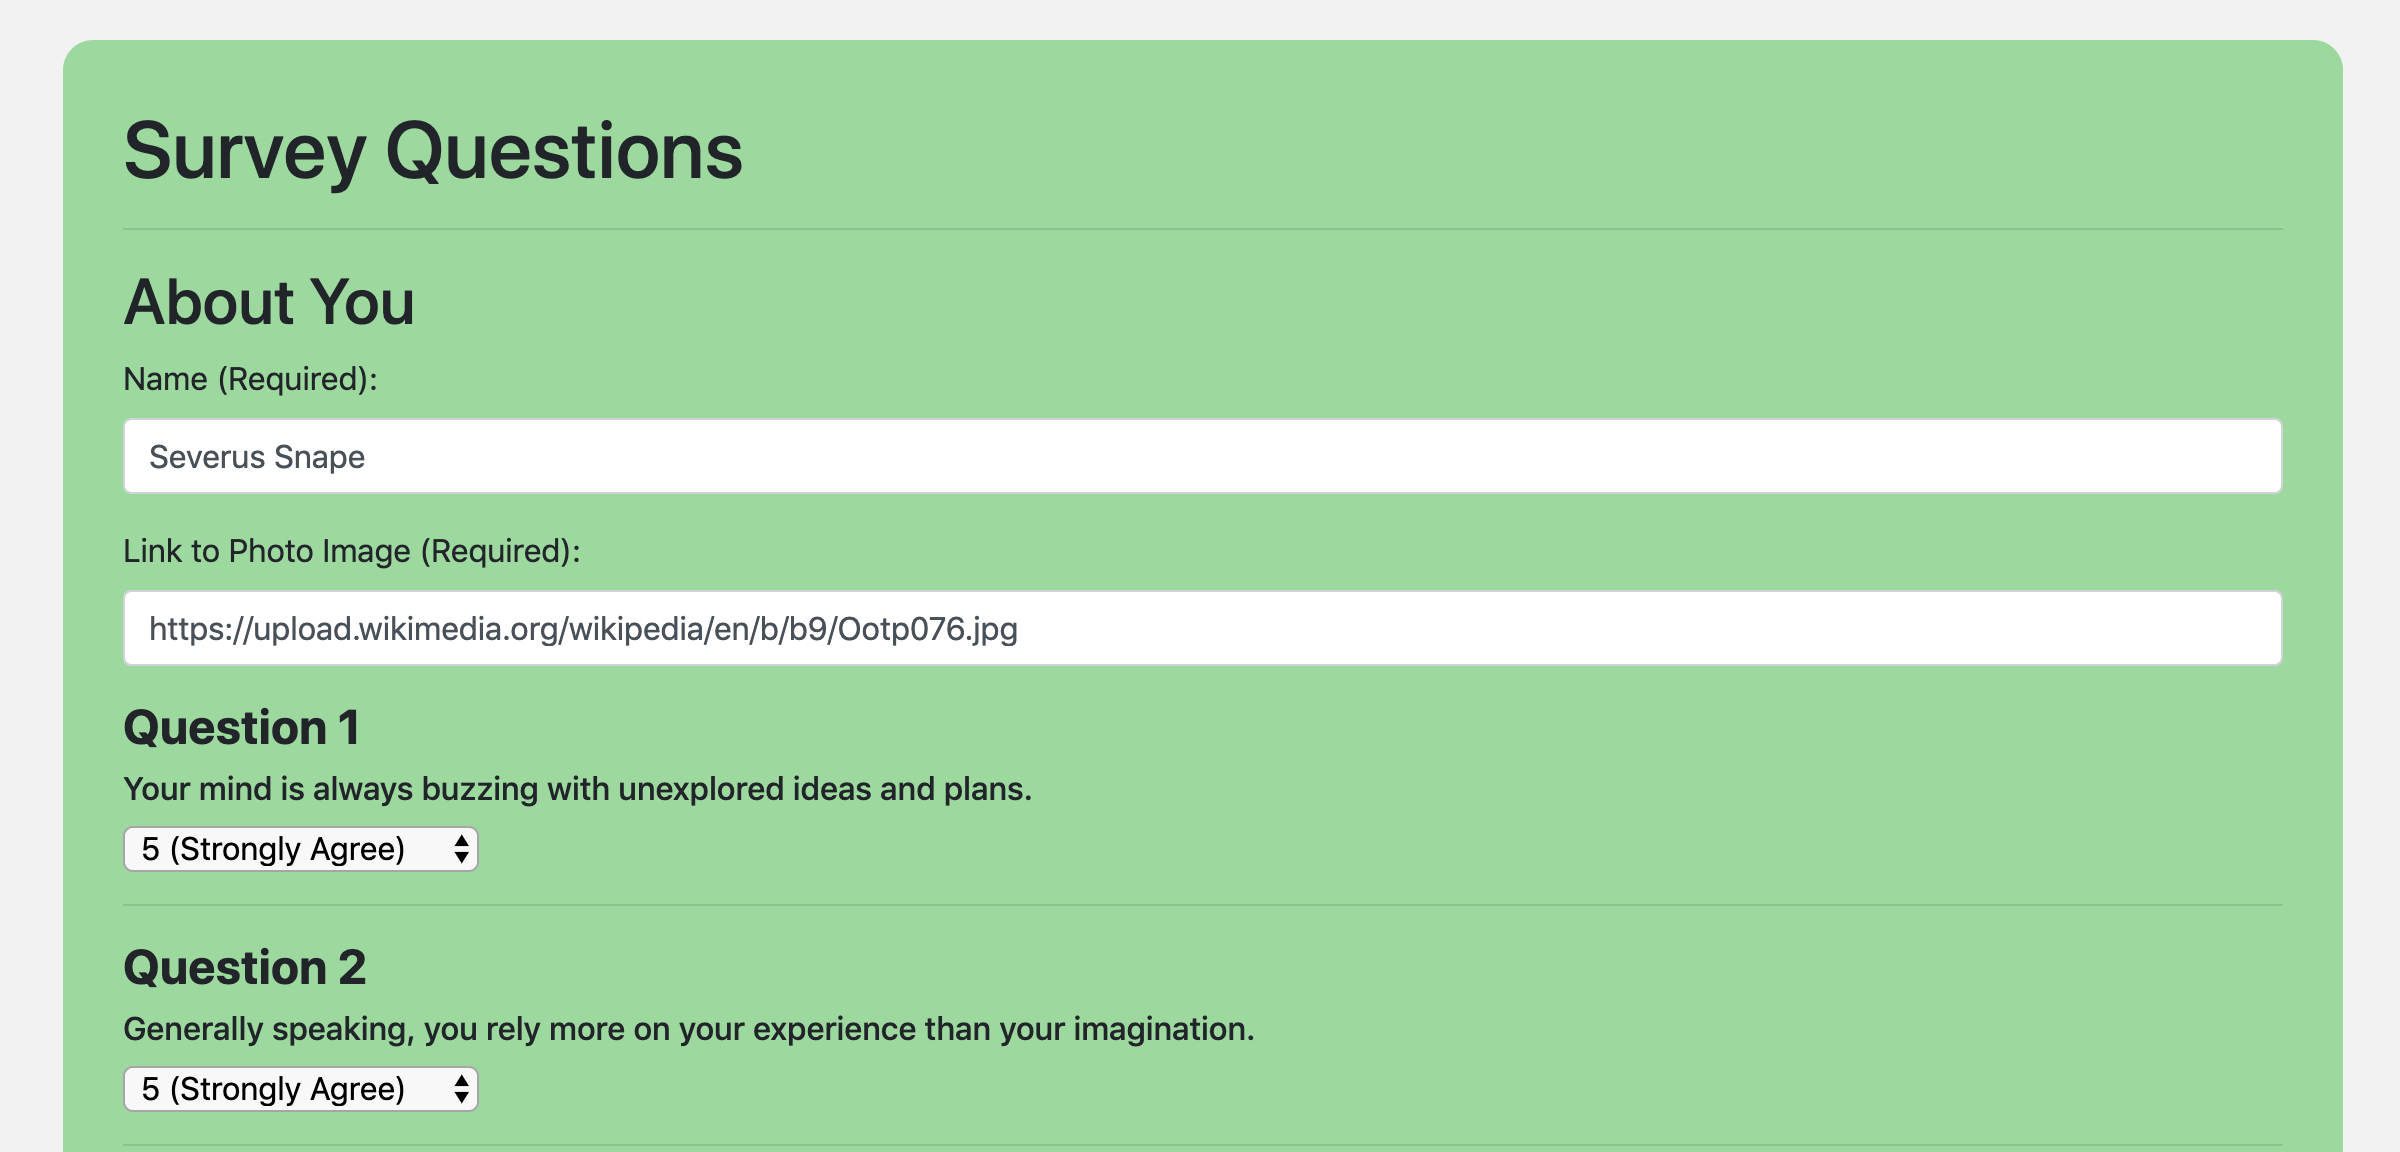
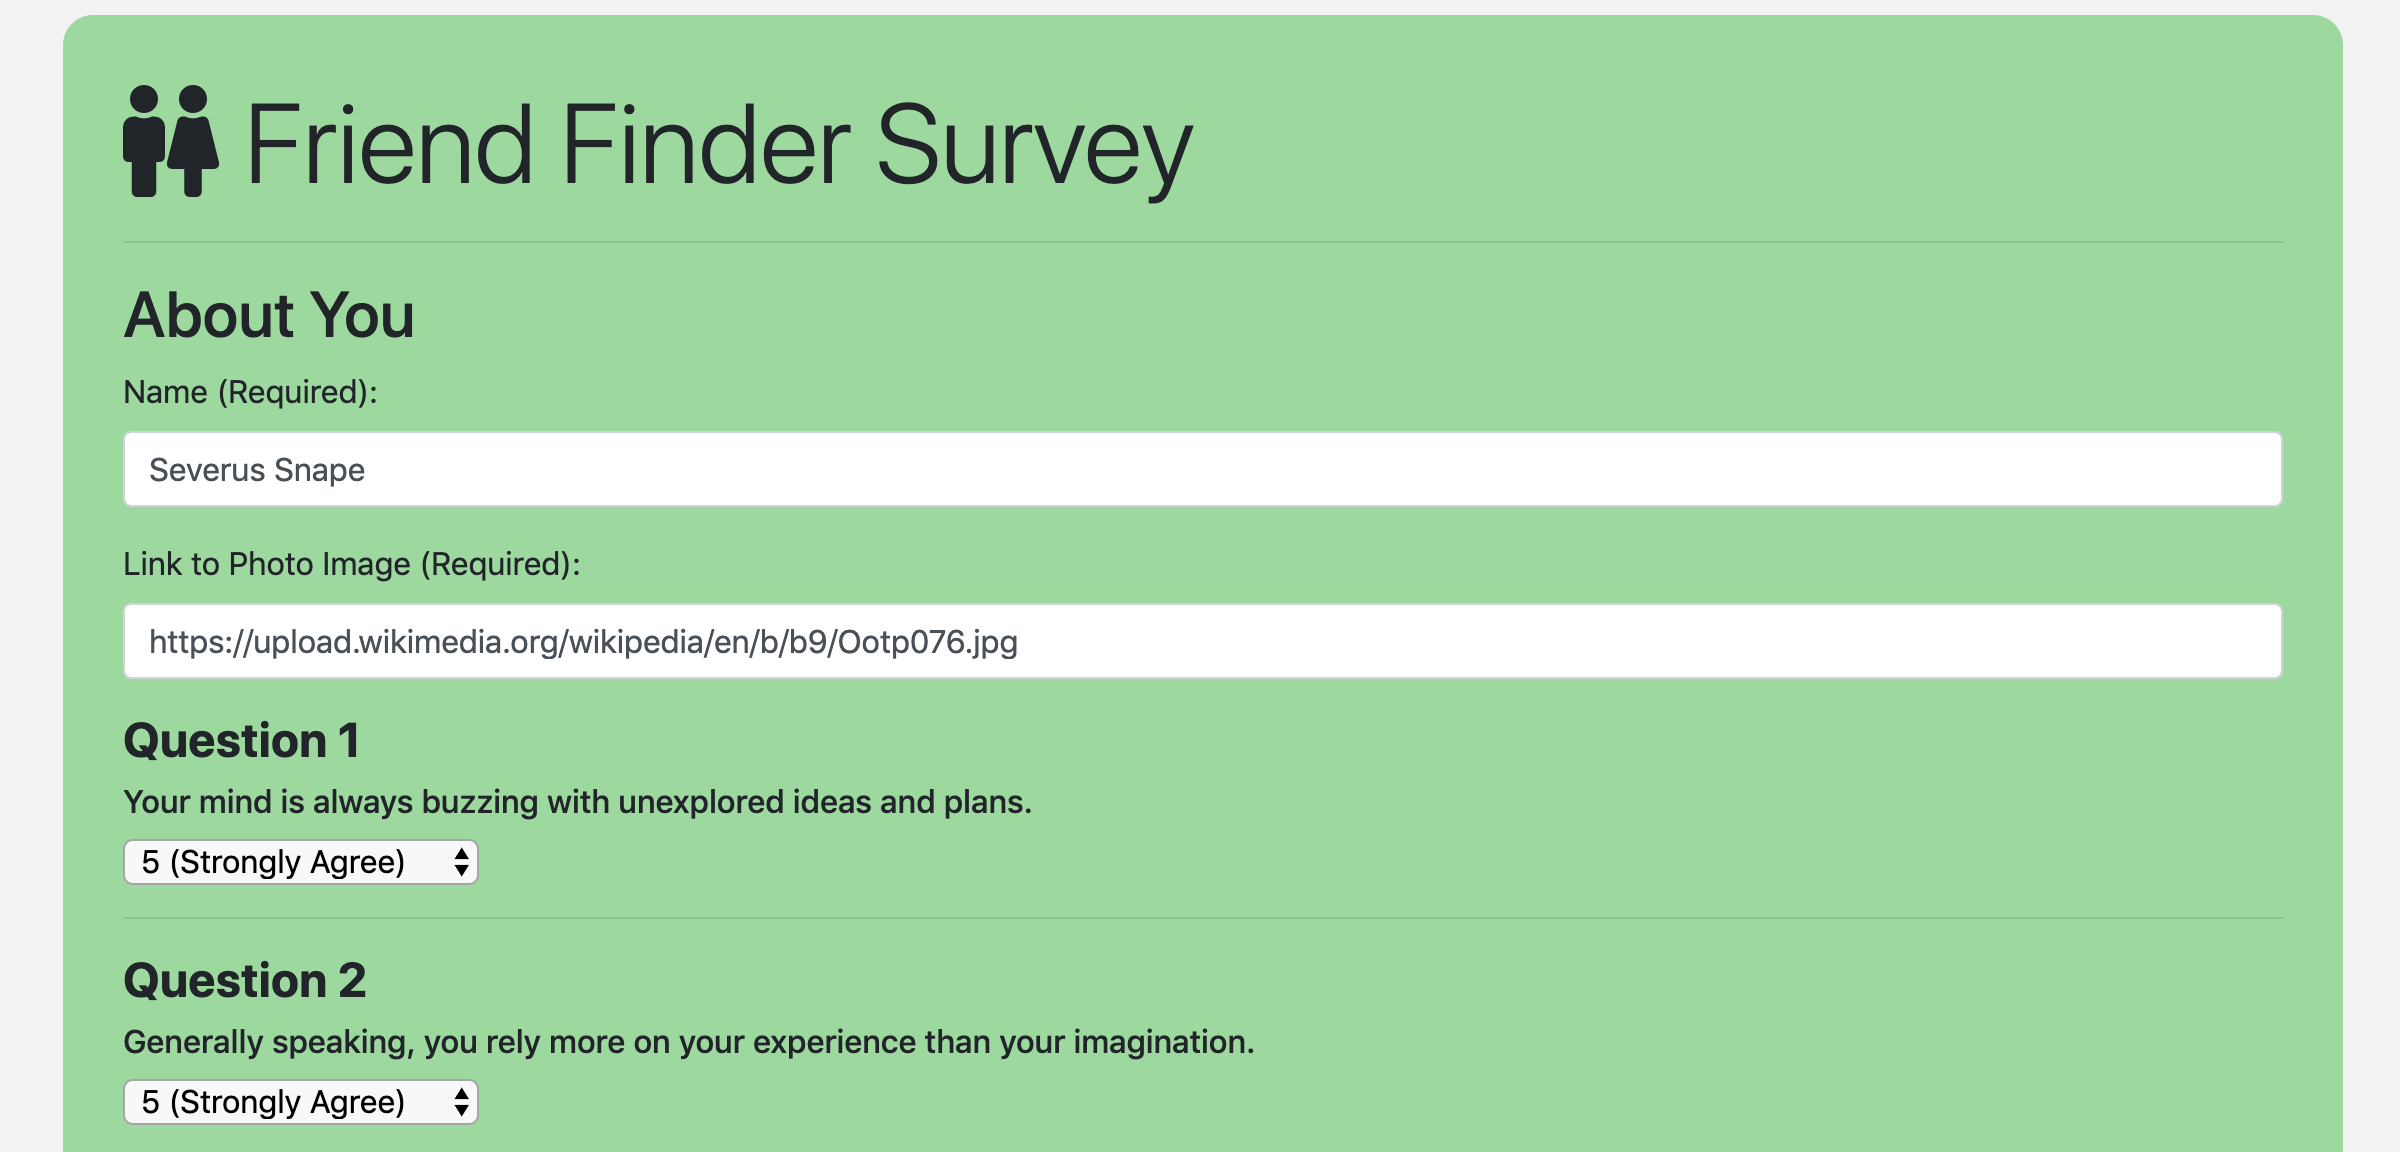
change survey name

diff --git a/app/public/survey.html b/app/public/survey.html
@@ -47,7 +47,7 @@
 
 <body>
     <div class="container">
-        <h1>Survey Questions</h1>
+            <h1 class="display-4"><i class="fas fa-male"></i><i class="fas fa-female"></i> Friend Finder Survey</h1>
         <hr>
         <h2>About You</h2>
         <form>
